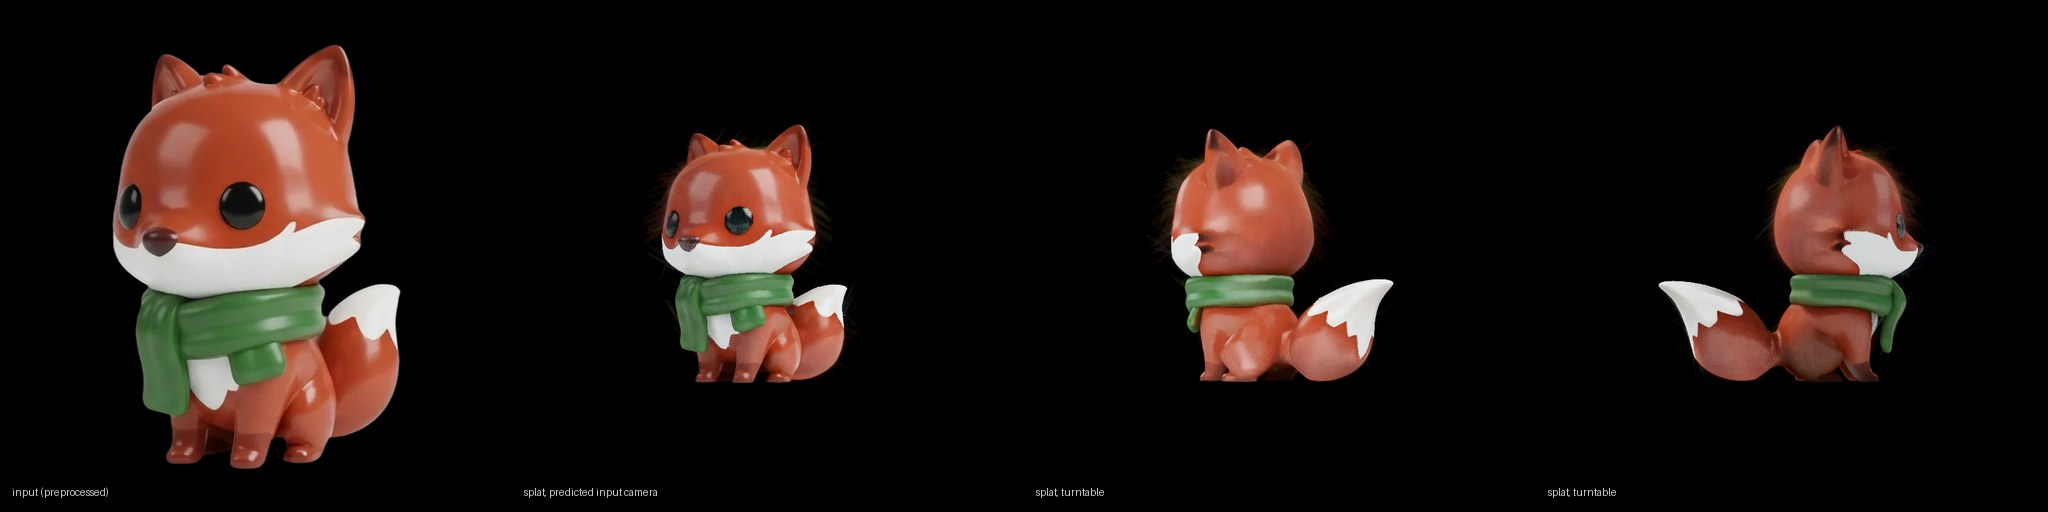
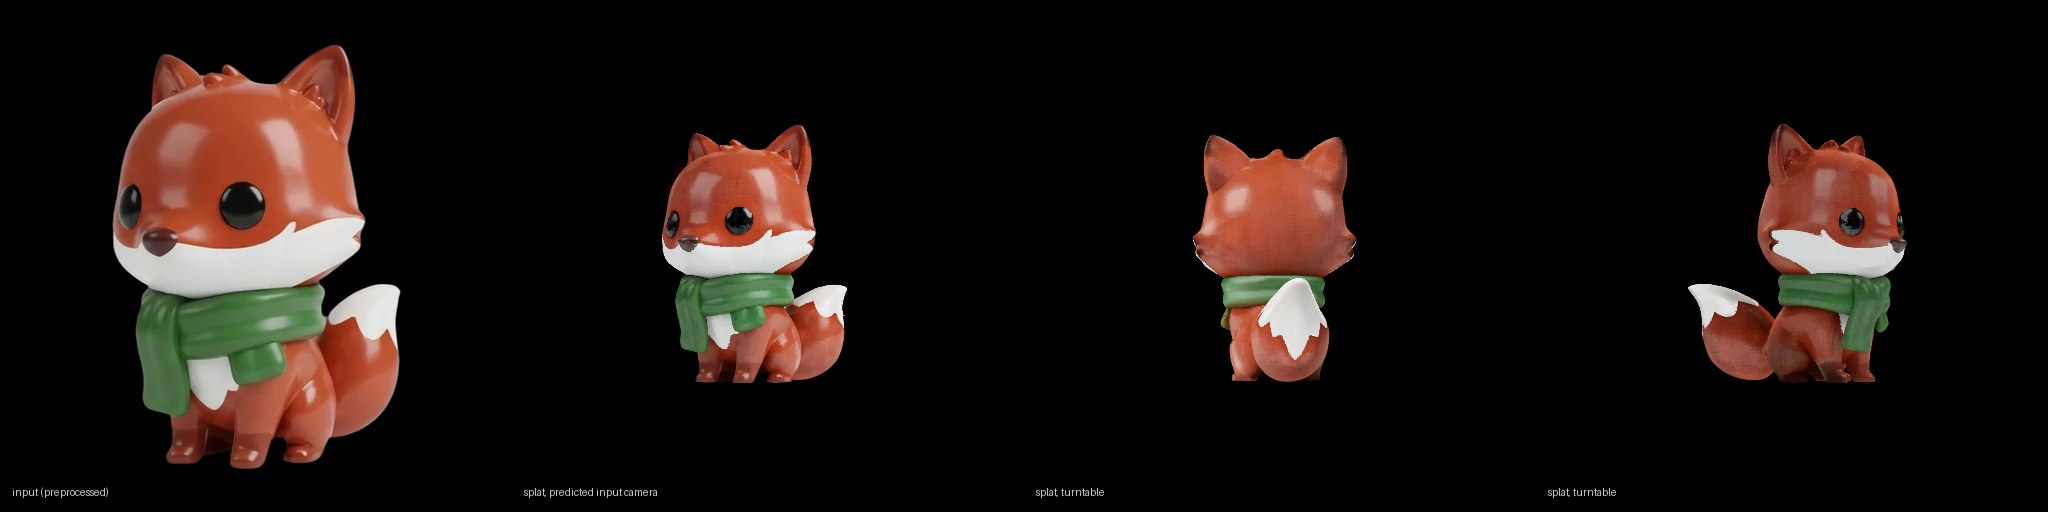
Add Idol Prune Splat, photo settings and haze notes; parity test runs on GPU too
Idol emits about half of its gaussians with opacity under 0.05, which viewers and exports draw as a fuzzy halo
with needle spikes at the silhouette. Idol Prune Splat drops them (and optionally the longest gaussians) and is
wired into the example workflow before the renders and the file; the thumbnail is re-rendered from the pruned
splat. The parity test now also runs the fp16 GPU path (--cuda), measured against the reference's own fp16 trunk.

diff --git a/tests/parity.py b/tests/parity.py
@@ -140,20 +140,31 @@ def main():
         ref_logits = ref_oct(coords.to(device), level.to(device), latent.to(device)).cpu()
         ref_feats = ref_gs(points.to(device), latent.to(device))
         ref_g = ref_gs.to_representation(points.to(device), ref_feats)[0]
+    if args.cuda:
+        # the reference as shipped runs the decoder blocks in fp16 too (convert_module_to_f16): how far is its own
+        # mixed-precision path from fp32? This is the yardstick for the ComfyUI fp16 numbers below.
+        half = GaussianFixedlenDecoder(**config["decoder_gs"]["args"])
+        half.load_state_dict(load_file(os.path.join(args.weights, "decoder_gs.safetensors")), strict=True)
+        half = half.eval().requires_grad_(False).to(device)
+        with torch.no_grad():
+            half_feats = half(points.to(device), latent.to(device))
+        report("gaussian raw features (reference's own fp16 trunk vs fp32)", half_feats.cpu(), ref_feats.cpu(), 1.0)
+        del half
     merged = {f"octree.{k}": v for k, v in load_file(os.path.join(args.weights, "decoder.safetensors")).items()}
     merged.update({f"gs.{k}": v for k, v in load_file(os.path.join(args.weights, "decoder_gs.safetensors")).items()})
     # From fp32 weights the decoders differ from the reference by ~1e-4 to 3e-3: ComfyUI's fused RMSNorm uses eps 1e-6
     # where the reference uses F.normalize (eps ~0), and the cross-attention keys from the 16-channel latent have small
-    # norms. With eps 0 the two match exactly; it is well below the fp16 rounding of the shipped files.
+    # norms. With eps 0 the two match exactly. The fp16 file at fp16 compute (--cuda) sits at ~1e-2, the same distance
+    # from fp32 as the reference's own fp16 trunk (printed above).
     for label, sd, tol in [("released fp32 weights", merged, 5e-3),
                            ("converted idol_decoder_fp16", load_file(os.path.join(args.converted, "vae", "idol_decoder_fp16.safetensors")), 5e-2)]:
-        vae = comfy.sd.VAE(sd=sd, dtype=torch.float32 if not args.cuda else None)
+        vae = comfy.sd.VAE(sd=sd, dtype=torch.float32 if label.startswith("released") else None)  # fp16 file: the device's default dtype
         comfy.model_management.load_models_gpu([vae.patcher])
         fsm, dt = vae.first_stage_model, vae.vae_dtype
-        with torch.no_grad():
-            logits = fsm.octree(coords.to(vae.device, dt), level.to(vae.device), latent.to(vae.device, dt))["logits"]
-            pred = fsm.gs(x={"points": points.to(vae.device, dt)}, cond=latent.to(vae.device, dt))
-            pg = build_gaussian_models(fsm.gs, {"points": points.to(vae.device, dt)}, pred)[0]
+        with torch.no_grad():  # points stay fp32, as in OctreeGaussianDecoder.decode: the position embedder needs them
+            logits = fsm.octree(coords.to(vae.device), level.to(vae.device), latent.to(vae.device, dt))["logits"]
+            pred = fsm.gs(x={"points": points.to(vae.device)}, cond=latent.to(vae.device, dt))
+            pg = build_gaussian_models(fsm.gs, {"points": points.to(vae.device)}, pred)[0]
             positions, _scales, rotations, opacities, sh = pg.render_tensors()
         print(f"  {label}: ComfyUI VAE dtype {dt}")
         ok &= report(f"octree logits ({label})", logits.cpu(), ref_logits, tol)

diff --git a/idol/nodes.py b/idol/nodes.py
@@ -111,4 +111,49 @@ class IdolCamera(IO.ComfyNode):
         return IO.NodeOutput(cam.camera_info(decoded), yaw, pitch, decoded["radius"], decoded["fov"])
 
 
-NODES = [IdolPreprocessImage, IdolCamera]
+class IdolPruneSplat(IO.ComfyNode):
+    @classmethod
+    def define_schema(cls):
+        return IO.Schema(
+            node_id="IdolPruneSplat",
+            display_name="Idol Prune Splat",
+            category="3d/idol",
+            search_aliases=["prune splat", "splat opacity filter", "remove floaters", "clean splat"],
+            description="Drops the gaussians that only add haze: Idol emits about half of its gaussians with near-zero "
+                        "opacity, and the 3D viewer and most exports draw them as a fuzzy, hairy halo around the "
+                        "object. Pruning them (and optionally the longest, needle-shaped ones) cleans the splat and "
+                        "halves the file. Render Splat and Extract Mesh have their own thresholds; this applies to "
+                        "what you save and view.",
+            inputs=[
+                IO.Splat.Input("splat"),
+                IO.Float.Input("min_opacity", default=0.05, min=0.0, max=1.0, step=0.01,
+                               tooltip="Drop gaussians with opacity below this. 0.02 to 0.1 are sensible; 0 keeps all."),
+                IO.Float.Input("max_scale", default=0.0, min=0.0, max=1.0, step=0.005, advanced=True,
+                               tooltip="Drop gaussians whose longest axis exceeds this, in object units (the object "
+                                       "spans about 1). Removes needle-shaped spikes at the silhouette; 0 = off, "
+                                       "0.05 is a reasonable start."),
+            ],
+            outputs=[IO.Splat.Output(display_name="splat"), IO.Int.Output(display_name="count")],
+        )
+
+    @classmethod
+    def execute(cls, splat, min_opacity, max_scale) -> IO.NodeOutput:
+        from comfy_api.latest import Types
+        kept = []
+        for i in range(splat.positions.shape[0]):
+            n = int(splat.counts[i]) if splat.counts is not None else splat.positions.shape[1]
+            keep = splat.opacities[i, :n, 0] >= min_opacity
+            if max_scale > 0:
+                keep &= splat.scales[i, :n].max(dim=-1).values <= max_scale
+            idx = torch.nonzero(keep, as_tuple=True)[0]
+            kept.append(tuple(t[i, :n][idx] for t in (splat.positions, splat.scales, splat.rotations, splat.opacities, splat.sh)))
+        counts = torch.tensor([k[0].shape[0] for k in kept])
+        n_max = max(1, int(counts.max()))
+        pad = lambda t: F.pad(t, (0,) * (2 * (t.ndim - 1)) + (0, n_max - t.shape[0]))
+        batched = [torch.stack([pad(k[j]) for k in kept]) for j in range(5)]
+        uniform = bool((counts == n_max).all())
+        out = Types.SPLAT(*batched, counts=None if uniform else counts)
+        return IO.NodeOutput(out, int(counts[0]))
+
+
+NODES = [IdolPreprocessImage, IdolCamera, IdolPruneSplat]

diff --git a/__init__.py b/__init__.py
@@ -2,9 +2,10 @@
 
 Idol is the TripoSplat architecture retrained, and ComfyUI implements that natively, so with the weights in
 ComfyUI's layout (scripts/convert.py, or the files on nynxz/Idol) the stock nodes run it: Load Diffusion Model,
-Load VAE, Load CLIP Vision, TripoSplat Conditioning, KSampler, TripoSplat Decode, Save Splat. The two nodes here
-add what Idol's own pipeline has on top: Idol Preprocess Image (its crop modes, background removal in place) and
-Idol Camera (the input camera the model predicts next to the object).
+Load VAE, Load CLIP Vision, TripoSplat Conditioning, KSampler, TripoSplat Decode, Save Splat. The nodes here add
+what Idol's own pipeline has on top: Idol Preprocess Image (its crop modes, background removal in place), Idol
+Camera (the input camera the model predicts next to the object) and Idol Prune Splat (drops the near-transparent
+gaussians that make viewers and exports hazy).
 """
 
 from comfy_api.latest import ComfyExtension

diff --git a/README.md b/README.md
@@ -11,9 +11,10 @@ seconds on a modern GPU.
   weights load with Load Diffusion Model and Load VAE and the stock TripoSplat nodes, KSampler, Render Splat,
   Save Splat and the 3D viewer run it. ComfyUI's offloading, dtypes, attention backends and `torch.compile`
   apply as usual.
-- **Two nodes** for what Idol's pipeline adds on top: **Idol Preprocess Image** (its `synthetic` / `real`
-  crop modes, background removal in place) and **Idol Camera** (the camera Idol predicts for the input, to
-  re-render the input view or start a turntable from it).
+- **Three small nodes** for what Idol's pipeline adds on top: **Idol Preprocess Image** (its `synthetic` /
+  `real` crop modes, background removal in place), **Idol Camera** (the camera Idol predicts for the input, to
+  re-render the input view or start a turntable from it) and **Idol Prune Splat** (drops the near-transparent
+  gaussians that make the viewer and exports look hazy).
 
 ## Install
 
@@ -58,6 +59,7 @@ with the Idol files and the two Idol nodes:
 | KSampler | `euler` / `simple`, **50** steps, cfg **4.0** |
 | Load VAE | `idol_decoder_fp16.safetensors` → TripoSplat Decode |
 | TripoSplat Decode | `num_gaussians` **262144** |
+| **Idol Prune Splat** | `min_opacity` **0.05**: keeps about half the gaussians, all the visible ones |
 | **Idol Camera** → Render Splat | the splat from the predicted input camera: should look like the preprocessed image |
 | Render Splat (72 frames) → Create Video | a turntable |
 | Create 3D File (from Splat) → Save Splat | `.ply` (or `.spz`, ~10x smaller), shown in the 3D viewer |
@@ -71,6 +73,15 @@ config, so no ModelSamplingSD3 node is needed; its 50 Euler steps on `linspace(1
 
 - **Crop mode matters.** Idol was trained with the object spanning 1/1.2 of the frame for renders and
   generated images (`synthetic`) and 1/1.7 for photographs (`real`). `custom` sets the margin directly.
+- **Photographs:** `mode` **real**, a clean cutout (BiRefNet does well on a single object against a simple
+  background; for hard cases paint the mask yourself and connect it), the object centred and whole in the
+  frame, and the reference's sampling (50 steps, cfg 4). The model was trained on single objects, so crop
+  out neighbours and supports. Nothing else in the graph is photo-specific.
+- **Haze, spikes and fuzzy edges** in the 3D viewer or an export are the near-transparent gaussians: Idol
+  emits about half of its gaussians with opacity under 0.05, and viewers draw all of them. **Idol Prune
+  Splat** removes them (`min_opacity` 0.05; `max_scale` 0.05 also cuts needle-shaped spikes at the
+  silhouette) and halves the file; Render Splat and Extract Mesh have the same threshold built in
+  (`opacity_threshold`, `min_opacity`). It changes what the result looks like far more than any sampler setting.
 - **Transparent PNGs:** Idol uses an image's own alpha when it has one. In ComfyUI, Load Image's mask is the
   *transparent* region, so pass it through **Invert Mask** into Idol Preprocess Image's `mask`; the
   background removal model is then not needed.
@@ -97,6 +108,12 @@ What `idol.preprocess` does, on tensors: the short side is resized to 1024, the 
 BiRefNet's prediction when none is connected) is eroded by `erode_radius` pixels so no background fringe
 survives, a square of `mode` × the object's bounding box is cropped around it, resized to `size` × `size`
 and composited on black. The `mask` output is the alpha in that frame.
+
+**Idol Prune Splat**: SPLAT → SPLAT, count
+
+Drops gaussians with opacity below `min_opacity` and, if `max_scale` is set, those whose longest axis exceeds
+it (object units; the object spans about one). Batches keep per-item counts. Put it between TripoSplat Decode
+and anything that saves, previews or renders.
 
 **Idol Camera**: LATENT → LOAD3D_CAMERA, yaw, pitch, distance, fov
 
